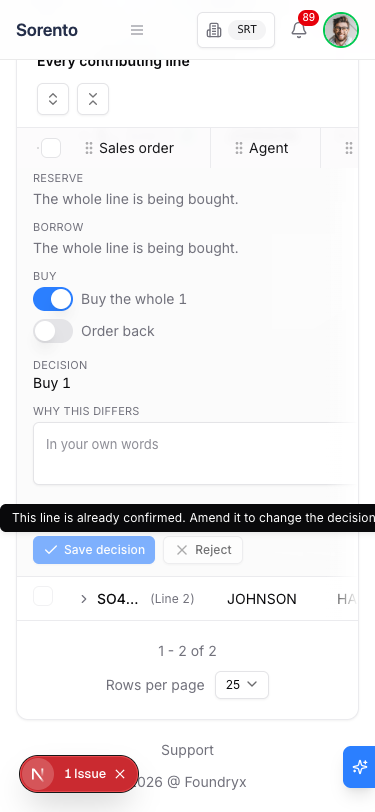
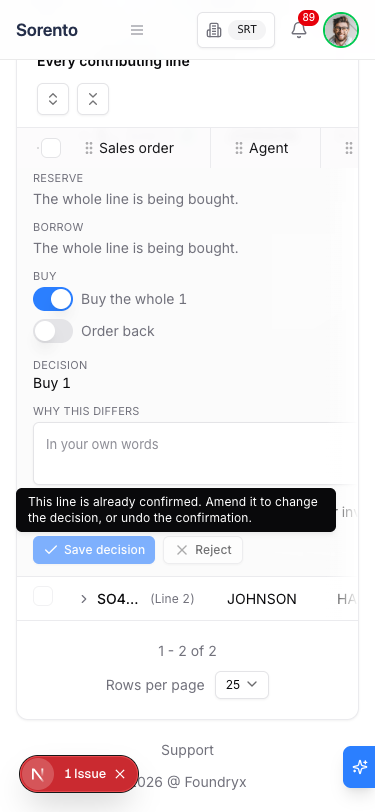
fix(scm): board pre-mark skips a covered line so an applied deep-linked batch never prints Saved over Confirmed; plan status
S1-R3: preMarkedKeys now excludes a covered contribution the same way it
already excludes an unplannable one, so a batch that resolves APPLIED
after the board's own draft seeding still leaves a Confirmed line alone.
PLAN Status moved from building to implemented, PR #989 awaiting owner go.

Changed region(s): [[0.0, 0.585, 1.0, 0.6773]]

diff --git a/sorento_crm_frontend/app/(protected)/project-sales/fulfilment-planning/components/FulfilmentBoardPanel.change.test.tsx b/sorento_crm_frontend/app/(protected)/project-sales/fulfilment-planning/components/FulfilmentBoardPanel.change.test.tsx
@@ -612,4 +612,66 @@ describe('a covered line stays covered once the batch has been applied (R3, revi
 
     expect(screen.getByRole('button', { name: 'Save decision' })).toBeDisabled();
   });
+
+  /**
+   * AC-F7: the same case as AC-F6, but the batch resolves AFTER the board's own contributions
+   * are already on screen - `usePlanningChangeBatchesByIds` is its own query, so a real page
+   * almost always renders the board before the batch (a second, slower fetch) lands. The
+   * pre-mark effect must not seed a `Saved` verdict for a line that is COVERED once the batch
+   * finally arrives, whatever order the two reads settle in.
+   */
+  it('AC-F7: the pill still reads Confirmed when the batch resolves AFTER the board contributions are already on screen', async () => {
+    getPlanningBoard.mockResolvedValue(
+      buildBoard(
+        [
+          demand({
+            decision: {
+              revision_no: 1,
+              confirmed_at: '2026-08-18T02:00:00',
+              timely_spo_qty: '0',
+              reserve: [{ warehouse_id: 'wh-BRW-IB', location: 'BRW-IB', qty: '25' }],
+              borrow: [],
+              buy_qty: '0',
+            },
+          }),
+        ],
+        { today: TODAY, freeStock: {}, granularity: 'week' },
+      ),
+    );
+    let resolveBatch: (
+      value: typeof MOCK_PLANNING_CHANGE_BATCH_SO_CHANGE,
+    ) => void = () => {};
+    getPlanningChangeBatch.mockImplementation(
+      () =>
+        new Promise((resolve) => {
+          resolveBatch = resolve;
+        }),
+    );
+
+    renderPanel();
+    await screen.findByTestId('fulfilment-board-matrix');
+
+    // The board is on screen with no batch loaded yet; only now does the batch land.
+    resolveBatch({
+      ...MOCK_PLANNING_CHANGE_BATCH_SO_CHANGE,
+      applied_at: '2026-08-19T10:00:00Z',
+      applied_by_name: 'Cyndi Tee',
+    });
+
+    fireEvent.click(
+      await screen.findByRole('button', {
+        name: /SRTWCX7405-RL-S-PJ, .* across 1 sales order/,
+      }),
+    );
+    const linesTab = await screen.findByRole('tab', {
+      name: /^Contributing lines/,
+    });
+    fireEvent.mouseDown(linesTab);
+    fireEvent.click(linesTab);
+
+    const key = 'so-381895|1|SRTWCX7405-RL-S-PJ|2026-08-17';
+    await waitFor(() => {
+      expect(screen.getByTestId(`decision-pill-${key}`)).toHaveTextContent('Confirmed');
+    });
+  });
 });

diff --git a/sorento_crm_frontend/app/(protected)/project-sales/_shared/lib/boardChangeAnnotations.ts b/sorento_crm_frontend/app/(protected)/project-sales/_shared/lib/boardChangeAnnotations.ts
@@ -587,7 +587,11 @@ export function preMarkedKeys(
         contribution.project_line_id !== null &&
         contribution.project_line_id !== undefined &&
         changed.has(contribution.project_line_id) &&
-        !contribution.unplannable,
+        !contribution.unplannable &&
+        // A line an active decision covers has nothing to pre-mark (the same rule
+        // `canQuickSave` states) - without this, a batch resolving as APPLIED after the
+        // board already uncovered the line seeded a Saved draft onto a Confirmed line.
+        !contribution.covered,
     )
     .map((contribution) => contribution.key);
 }

diff --git a/documentation/plans/scm/PLAN-board-draft-on-confirmed-line.md b/documentation/plans/scm/PLAN-board-draft-on-confirmed-line.md
@@ -1,6 +1,6 @@
 # PLAN: planning board refuses a plain Save or Reject on an already-confirmed line, and catches up after a lost Confirm
 
-Status: building (owner go 17 Sep 2026, "backend needs to be more strict")
+Status: implemented, PR #989 awaiting owner go
 Domain: scm / fulfilment planning board
 Branch: `fix/board-draft-on-confirmed-line` (worktree `sorento_crm-board-draft-covered`, test DB `sorento_sodl_ci`)
 UAC: `board-draft-on-confirmed-line-acceptance-criteria.md`
